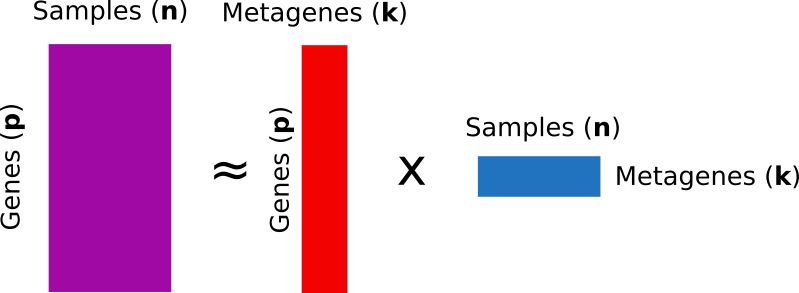
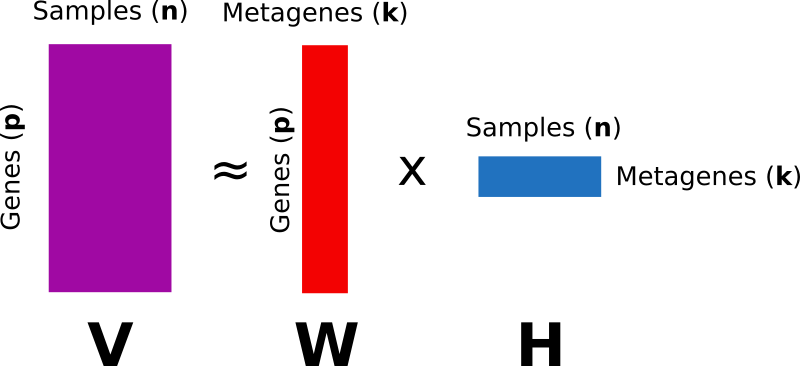
More NMF

diff --git a/07-linear-algebra-review-vii/README.md b/07-linear-algebra-review-vii/README.md
@@ -1,13 +1,30 @@
-Linear Algebra Review VII
-=========================
+-   [Partitioned Matrices](#partitioned-matrices)
+    -   [Overview](#overview)
+    -   [Addition and Scalar multiplication](#addition-and-scalar-multiplication)
+    -   [Multiplication of partitioned matrices](#multiplication-of-partitioned-matrices)
+    -   [Views of matrix products](#views-of-matrix-products)
+    -   [The column-row expansion of *A**B*](#the-column-row-expansion-of-ab)
+    -   [Inverses of partitioned matrices](#inverses-of-partitioned-matrices)
+-   [Matrix Factorization](#matrix-factorization)
+    -   [LU factorization](#lu-factorization)
+    -   [Non-negative matrix factorization](#non-negative-matrix-factorization)
+    -   [Applications in Computational Biology (Devarajan, 2008)](#applications-in-computational-biology-devarajan-2008)
+    -   [R code example: Leukemia expression analysis](#r-code-example-leukemia-expression-analysis)
+-   [References](#references)
+-   [See Also](#see-also)
+-   [System Information](#system-information)
 
+<h1>
+Linear Algebra Review VII
+</h1>
 -   Keith Hughitt
 -   August 05, 2016
 
-2.4 Partitioned Matrices
-------------------------
+Partitioned Matrices
+====================
 
-### Overview
+Overview
+--------
 
 Matrix partitioning takes a single matrix and breaks it up into multiple submatrices.
 
@@ -58,12 +75,14 @@ Chapter 2.4 in Lay generalizes this idea to other arbitrary types of partitions 
 
 This can be useful, for example, for breaking up a very large matrix into smaller matrices which can be operated on in memory, or for efficiently storing large sparse matrices.
 
-### Addition and Scalar multiplication
+Addition and Scalar multiplication
+----------------------------------
 
 -   If two matrices have the same size and are partitioned similarly, the sum of the matrices is defined, and is performed block-wise.
 -   Scalar multiplication can also be applied block-by-block.
 
-### Multiplication of partitioned matrices
+Multiplication of partitioned matrices
+--------------------------------------
 
 For partitioned matrices *A* and *B*, the matrix product *A**B* is defined if the column parition of *A* matches the row partition of *B*.
 
@@ -90,7 +109,8 @@ $$
 -->
 ![](img/partitioned-matrices-4.png)
 
-### Views of matrix products
+Views of matrix products
+------------------------
 
 So far, we have considered several different ways of viewing matrix-related products, using partitions:
 
@@ -101,7 +121,8 @@ So far, we have considered several different ways of viewing matrix-related prod
 
 Section 2.4 defines fifth way of viewing the matrix product *A**B* (columnr-row expansion), described below.
 
-### The column-row expansion of *A**B*
+The column-row expansion of *A**B*
+----------------------------------
 
 **Theorem 10**
 
@@ -121,7 +142,8 @@ $$
 -->
 ![](img/partitioned-matrices-5.png)
 
-### Inverses of partitioned matrices
+Inverses of partitioned matrices
+--------------------------------
 
 Analytic formula for the inverse of a block matrix, courtesy of [Wikipedia](https://en.wikipedia.org/wiki/Invertible_matrix#Blockwise_inversion):
 
@@ -134,8 +156,8 @@ $$
 
 where *A*, *B*, *C* and *D* are matrix sub-blocks of arbitrary size.
 
-2.5 Matrix Factorization (UNFINISHED)
--------------------------------------
+Matrix Factorization
+====================
 
 In matrix *factorization* or *decomposition*, we *decompose* a single matrix into two or more matrices, which, when multipled together, form A.
 
@@ -149,9 +171,10 @@ Examples of matrix factorizations:
 
 Below, we discuss the *LU* factorization and NMF. SVD is extremely useful and we will revisit it later after we review eigenvectors and eigenvalues (chapter 5).
 
-### LU factorization
+LU factorization
+----------------
 
-#### Overview
+### Overview
 
 ![Alan Turing](img/Alan_Turing_Aged_16.jpg) (source: [Wikipedia](https://en.wikipedia.org/wiki/Alan_Turing#/media/File:Alan_Turing_Aged_16.jpg))
 
@@ -161,7 +184,7 @@ Below, we discuss the *LU* factorization and NMF. SVD is extremely useful and we
 
 ![LU decomposition](img/lu-decomp.png) (source: [Wikipedia](https://en.wikipedia.org/wiki/LU_decomposition))
 
-#### Aplications
+### Aplications
 
 -   Solving systems of equations
 -   Matrix inversion
@@ -171,9 +194,10 @@ Below, we discuss the *LU* factorization and NMF. SVD is extremely useful and we
     -   Much faster solutions for subsequent systems
     -   Used by many computational solvers.
 
-### Non-negative matrix factorization
+Non-negative matrix factorization
+---------------------------------
 
-#### Overview
+### Overview
 
 Another useful matrix factorization is the non-negative matrix factorization (NMF). Popularised by Lee & Seung (1999), the method is now used for many different problems, e.g.:
 
@@ -183,7 +207,7 @@ Another useful matrix factorization is the non-negative matrix factorization (NM
 -   latent feature detection
 -   recommendation systems
 
-#### Definition
+### Definition
 
 Let *V* be an *p* × *n* *non-negative* matrix. NMF attempts to find *non-negative* matrices *W* (*p* × *k*) and *H* (*k* × *n*), whose product *approximates* *V*:
 
@@ -193,34 +217,58 @@ Here, the information contained in *V* is split into the *k* columns of *W*, or,
 
 ![](img/NMF.png) (Source: [Wikipedia](https://en.wikipedia.org/wiki/Non-negative_matrix_factorization))
 
-#### Image recognition (Lee & Seung, 1999)
+### Image recognition (Lee & Seung, 1999)
 
 ![Fig1 from Lee & Seung, 1999](img/401788aa.eps.2.gif)
 
 > We have applied non-negative matrix factorization (NMF), together with principal components analysis (PCA) and vector quantization (VQ), to a database of facial images. As shown in Fig. 1, all three methods learn to represent a face as a linear combination of basis images, but with qualitatively different results. VQ discovers a basis consisting of prototypes, each of which is a whole face. The basis images for PCA are 'eigenfaces', some of which resemble distorted versions of whole faces6. The NMF basis is radically different: its images are localized features that correspond better with intuitive notions of the parts of faces.
 
-(Source: )
+(Source: Lee & Seung, 1999)
 
-### Applications in Computational Biology (Devarajan, 2008)
+Applications in Computational Biology (Devarajan, 2008)
+-------------------------------------------------------
 
 The next few sections summarise some of the key ideas from a 2008 review paper by Karthik Devarajan, "Nonnegative matrix factorization: An analytical and interpretive tool in computational biology".
 
-#### A. Clustering of expression data (Brunet et al. 2004)
+### A. Clustering of expression data (Brunet et al. 2004)
 
 One common use of NMF is for clustering "molecular profile" (e.g. gene expression data).
 
-For example, we may wish to cluster samples based on their expression profiles:
+For example, we may wish to cluster samples based on their expression profiles.
 
 ![NMF matrices for expression clustering](img/nmf_matrices.png)
 
+In this case, we have matrices:
+
+-   *V* (*p* × *n*)
+-   *W* (*p* × *k*)
+-   *H* (*k* × *n*)
+
+Where:
+
+-   *p* = \# genes
+-   *n* = \# samples
+-   *k* = \# *metagenes* (i.e. \# of latent factors to detect)
+
+**Metagenes**
+
+-   Metagenes are described as being 'non-negative linear combinations of *p* genes'
+-   Note that `len(metagene) == len(sample)`
+    -   i.e. Each metagene is a ~10,000 long vector representing (hopefully) some specific subset of the samples.
+
+**Clustering samples vs. genes**
+
+Note that for the problem frame above, we are clustering *samples*. NMF can just as easily be used to *cluster* the genes (just take the transpose of *V*).
+
 ![Brunet et al. fig 1](img/Brunet_et_al_2004_fig1.jpg)
 
-### R code example: Leukemia expression analysis
+R code example: Leukemia expression analysis
+--------------------------------------------
 
-Here, we will use the [NMF package](https://cran.r-project.org/web/packages/NMF/index.html) for R ((Gaujoux and Seoighe, 2010))...
+Here, we will use the [NMF package](https://cran.r-project.org/web/packages/NMF/index.html) for R (Gaujoux & Seoighe, 2010).
 
 References
-----------
+==========
 
 ``` r
 # disabling for now (issues with knitcitations...)
@@ -236,12 +284,12 @@ bibliography()
 4.  <https://en.wikipedia.org/wiki/LU_decomposition>
 
 See Also
---------
+========
 
 -   [Matrix Factorization: A Simple Tutorial and Implementation in Python](http://www.quuxlabs.com/blog/2010/09/matrix-factorization-a-simple-tutorial-and-implementation-in-python/)
 
 System Information
-------------------
+==================
 
 ``` r
 library('knitr')
